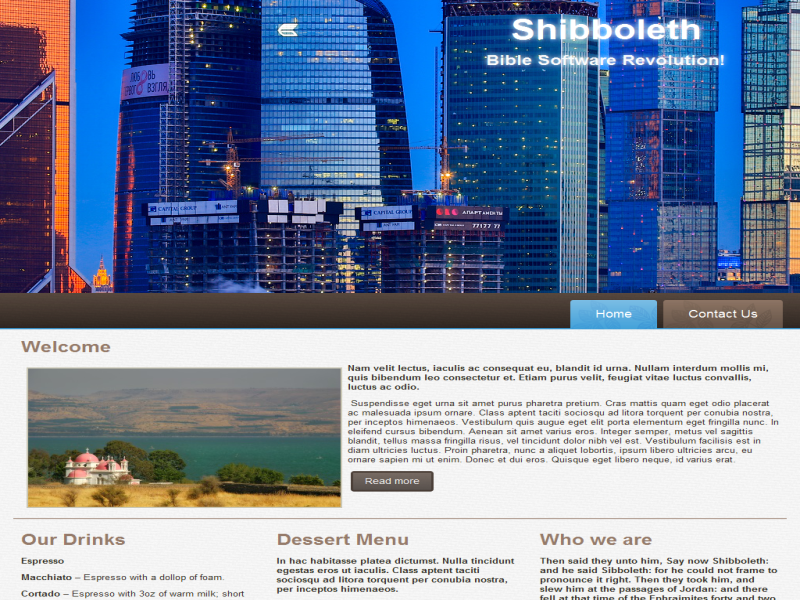
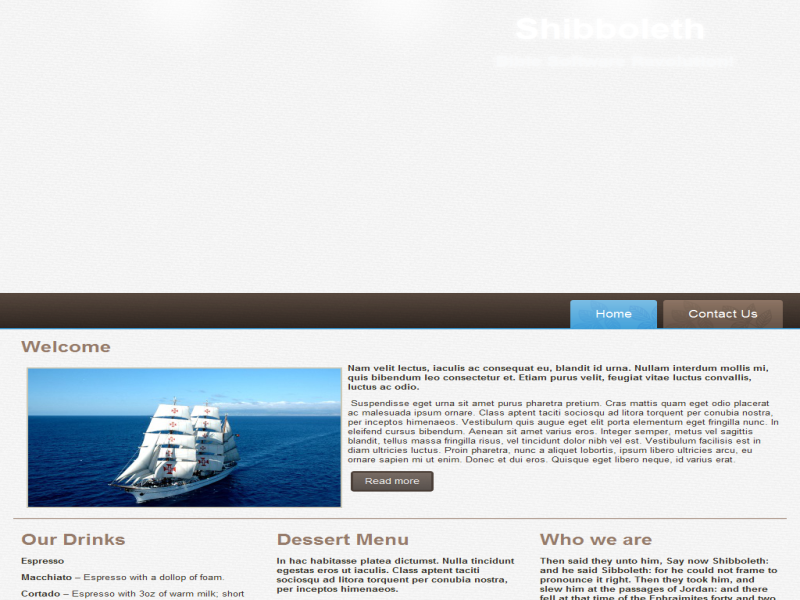
5

diff --git a/index.html b/index.html
@@ -57,7 +57,7 @@
     <div class="art-content-layout-row">
     <div class="art-layout-cell layout-item-1" style="width: 100%" >
         <h3>Welcome</h3>
-        <p><img width="400" height="236" alt="" src="images/Untitled.jpg" style="float: left; border-top-style: solid; border-right-style: solid; border-bottom-style: solid; border-left-style: solid; border-top-color: rgb(202, 199, 180); border-right-color: rgb(202, 199, 180); border-bottom-color: rgb(202, 199, 180); border-left-color: rgb(202, 199, 180); border-top-width: 2px; border-right-width: 2px; border-bottom-width: 2px; border-left-width: 2px;" class=""><span style="font-weight: bold;">Nam velit lectus, iaculis ac consequat eu, blandit id urna. Nullam interdum mollis mi, quis bibendum leo consectetur et. Etiam purus velit, feugiat vitae luctus convallis, luctus ac odio.</span></p>
+        <p><img width="400" height="236" alt="" src="images/3.jpg" style="float: left; border-top-style: solid; border-right-style: solid; border-bottom-style: solid; border-left-style: solid; border-top-color: rgb(202, 199, 180); border-right-color: rgb(202, 199, 180); border-bottom-color: rgb(202, 199, 180); border-left-color: rgb(202, 199, 180); border-top-width: 2px; border-right-width: 2px; border-bottom-width: 2px; border-left-width: 2px;" class=""><span style="font-weight: bold;">Nam velit lectus, iaculis ac consequat eu, blandit id urna. Nullam interdum mollis mi, quis bibendum leo consectetur et. Etiam purus velit, feugiat vitae luctus convallis, luctus ac odio.</span></p>
         <p>&nbsp;Suspendisse eget urna sit amet purus pharetra pretium. Cras mattis quam eget odio placerat ac malesuada ipsum ornare. Class aptent taciti sociosqu ad litora torquent per conubia nostra, per inceptos himenaeos. Vestibulum quis augue eget elit porta elementum eget fringilla nunc. In eleifend cursus bibendum. Aenean sit amet varius eros. Integer semper, metus vel sagittis blandit, tellus massa fringilla risus, vel tincidunt dolor nibh vel est. Vestibulum facilisis est in diam ultricies luctus. Proin pharetra, nunc a aliquet lobortis, ipsum libero ultricies arcu, eu ornare sapien mi ut enim. Donec et dui eros. Quisque eget libero neque, id varius erat.<br></p>
         <p>&nbsp;<a href="#" class="art-button">Read more</a>&nbsp;<br></p>
     </div>
@@ -99,7 +99,7 @@
         <p>&nbsp;<a href="#" class="art-button">Learn more</a>&nbsp;</p>
     </div><div class="art-layout-cell layout-item-1" style="width: 33%" >
         <p><span style="font-weight: bold;">Then said they unto him, Say now Shibboleth: and he said Sibboleth: for he could not frame to pronounce it right. Then they took him, and slew him at the passages of Jordan: and there fell at that time of the Ephraimites forty and two thousand.</span><span style="font-weight: bold;"></span></p>
-        <p><img width="217" height="144" alt="" src="images/2.jpg" style="border-top-style: solid; border-right-style: solid; border-bottom-style: solid; border-left-style: solid; border-top-color: rgb(202, 199, 180); border-right-color: rgb(202, 199, 180); border-bottom-color: rgb(202, 199, 180); border-left-color: rgb(202, 199, 180); border-top-width: 2px; border-right-width: 2px; border-bottom-width: 2px; border-left-width: 2px;" class=""><br></p>
+        <p><img width="217" height="144" alt="" src="images/4.jpg" style="border-top-style: solid; border-right-style: solid; border-bottom-style: solid; border-left-style: solid; border-top-color: rgb(202, 199, 180); border-right-color: rgb(202, 199, 180); border-bottom-color: rgb(202, 199, 180); border-left-color: rgb(202, 199, 180); border-top-width: 2px; border-right-width: 2px; border-bottom-width: 2px; border-left-width: 2px;"><br></p>
     </div>
     </div>
 </div>
@@ -117,7 +117,7 @@
 <div class="art-content-layout">
     <div class="art-content-layout-row">
     <div class="art-layout-cell layout-item-0" style="width: 12%">
-        <p><a href="#" class="art-rss-tag-icon" style="line-height: 38px; ">RSS</a><br></p>
+        <p><a href="#" class="art-rss-tag-icon" style="line-height: 38px;">RSS</a><br></p>
     </div><div class="art-layout-cell layout-item-1" style="width: 88%">
         <p>Shibboleth Bible Software 2016</p>
     </div>

diff --git a/new-page.html b/new-page.html
@@ -57,7 +57,7 @@
     <div class="art-content-layout-row">
     <div class="art-layout-cell layout-item-1" style="width: 100%" >
         <h3>Welcome</h3>
-        <p><img width="400" height="236" alt="" src="images/Untitled.jpg" style="float: left; border-top-style: solid; border-right-style: solid; border-bottom-style: solid; border-left-style: solid; border-top-color: rgb(202, 199, 180); border-right-color: rgb(202, 199, 180); border-bottom-color: rgb(202, 199, 180); border-left-color: rgb(202, 199, 180); border-top-width: 2px; border-right-width: 2px; border-bottom-width: 2px; border-left-width: 2px;" class=""><span style="font-weight: bold;">Nam velit lectus, iaculis ac consequat eu, blandit id urna. Nullam interdum mollis mi, quis bibendum leo consectetur et. Etiam purus velit, feugiat vitae luctus convallis, luctus ac odio.</span></p>
+        <p><img width="400" height="236" alt="" src="images/3.jpg" style="float: left; border-top-style: solid; border-right-style: solid; border-bottom-style: solid; border-left-style: solid; border-top-color: rgb(202, 199, 180); border-right-color: rgb(202, 199, 180); border-bottom-color: rgb(202, 199, 180); border-left-color: rgb(202, 199, 180); border-top-width: 2px; border-right-width: 2px; border-bottom-width: 2px; border-left-width: 2px;" class=""><span style="font-weight: bold;">Nam velit lectus, iaculis ac consequat eu, blandit id urna. Nullam interdum mollis mi, quis bibendum leo consectetur et. Etiam purus velit, feugiat vitae luctus convallis, luctus ac odio.</span></p>
         <p>&nbsp;Suspendisse eget urna sit amet purus pharetra pretium. Cras mattis quam eget odio placerat ac malesuada ipsum ornare. Class aptent taciti sociosqu ad litora torquent per conubia nostra, per inceptos himenaeos. Vestibulum quis augue eget elit porta elementum eget fringilla nunc. In eleifend cursus bibendum. Aenean sit amet varius eros. Integer semper, metus vel sagittis blandit, tellus massa fringilla risus, vel tincidunt dolor nibh vel est. Vestibulum facilisis est in diam ultricies luctus. Proin pharetra, nunc a aliquet lobortis, ipsum libero ultricies arcu, eu ornare sapien mi ut enim. Donec et dui eros. Quisque eget libero neque, id varius erat.<br></p>
         <p>&nbsp;<a href="#" class="art-button">Read more</a>&nbsp;<br></p>
     </div>
@@ -99,7 +99,7 @@
         <p>&nbsp;<a href="#" class="art-button">Learn more</a>&nbsp;</p>
     </div><div class="art-layout-cell layout-item-1" style="width: 33%" >
         <p><span style="font-weight: bold;">Then said they unto him, Say now Shibboleth: and he said Sibboleth: for he could not frame to pronounce it right. Then they took him, and slew him at the passages of Jordan: and there fell at that time of the Ephraimites forty and two thousand.</span><span style="font-weight: bold;"></span></p>
-        <p><img width="217" height="144" alt="" src="images/2.jpg" style="border-top-style: solid; border-right-style: solid; border-bottom-style: solid; border-left-style: solid; border-top-color: rgb(202, 199, 180); border-right-color: rgb(202, 199, 180); border-bottom-color: rgb(202, 199, 180); border-left-color: rgb(202, 199, 180); border-top-width: 2px; border-right-width: 2px; border-bottom-width: 2px; border-left-width: 2px;" class=""><br></p>
+        <p><img width="217" height="144" alt="" src="images/4.jpg" style="border-top-style: solid; border-right-style: solid; border-bottom-style: solid; border-left-style: solid; border-top-color: rgb(202, 199, 180); border-right-color: rgb(202, 199, 180); border-bottom-color: rgb(202, 199, 180); border-left-color: rgb(202, 199, 180); border-top-width: 2px; border-right-width: 2px; border-bottom-width: 2px; border-left-width: 2px;"><br></p>
     </div>
     </div>
 </div>
@@ -117,7 +117,7 @@
 <div class="art-content-layout">
     <div class="art-content-layout-row">
     <div class="art-layout-cell layout-item-0" style="width: 12%">
-        <p><a href="#" class="art-rss-tag-icon" style="line-height: 38px; ">RSS</a><br></p>
+        <p><a href="#" class="art-rss-tag-icon" style="line-height: 38px;">RSS</a><br></p>
     </div><div class="art-layout-cell layout-item-1" style="width: 88%">
         <p>Shibboleth Bible Software 2016</p>
     </div>

diff --git a/new-page-2.html b/new-page-2.html
@@ -77,7 +77,7 @@ E: &nbsp;<a href="mailto:email@domain.com">email@domain.com</a></p>
 <div class="art-content-layout">
     <div class="art-content-layout-row">
     <div class="art-layout-cell layout-item-0" style="width: 12%">
-        <p><a href="#" class="art-rss-tag-icon" style="line-height: 38px; ">RSS</a><br></p>
+        <p><a href="#" class="art-rss-tag-icon" style="line-height: 38px;">RSS</a><br></p>
     </div><div class="art-layout-cell layout-item-1" style="width: 88%">
         <p>Shibboleth Bible Software 2016</p>
     </div>

diff --git a/new-page/new-page-2.html b/new-page/new-page-2.html
@@ -62,7 +62,7 @@
 <div class="art-content-layout">
     <div class="art-content-layout-row">
     <div class="art-layout-cell layout-item-0" style="width: 12%">
-        <p><a href="#" class="art-rss-tag-icon" style="line-height: 38px; ">RSS</a><br></p>
+        <p><a href="#" class="art-rss-tag-icon" style="line-height: 38px;">RSS</a><br></p>
     </div><div class="art-layout-cell layout-item-1" style="width: 88%">
         <p>Shibboleth Bible Software 2016</p>
     </div>

diff --git a/new-page/new-page-3.html b/new-page/new-page-3.html
@@ -62,7 +62,7 @@
 <div class="art-content-layout">
     <div class="art-content-layout-row">
     <div class="art-layout-cell layout-item-0" style="width: 12%">
-        <p><a href="#" class="art-rss-tag-icon" style="line-height: 38px; ">RSS</a><br></p>
+        <p><a href="#" class="art-rss-tag-icon" style="line-height: 38px;">RSS</a><br></p>
     </div><div class="art-layout-cell layout-item-1" style="width: 88%">
         <p>Shibboleth Bible Software 2016</p>
     </div>

diff --git a/new-page/new-page.html b/new-page/new-page.html
@@ -62,7 +62,7 @@
 <div class="art-content-layout">
     <div class="art-content-layout-row">
     <div class="art-layout-cell layout-item-0" style="width: 12%">
-        <p><a href="#" class="art-rss-tag-icon" style="line-height: 38px; ">RSS</a><br></p>
+        <p><a href="#" class="art-rss-tag-icon" style="line-height: 38px;">RSS</a><br></p>
     </div><div class="art-layout-cell layout-item-1" style="width: 88%">
         <p>Shibboleth Bible Software 2016</p>
     </div>
